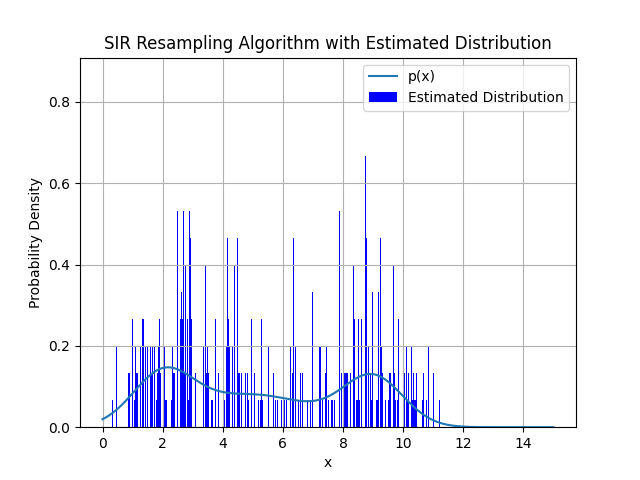
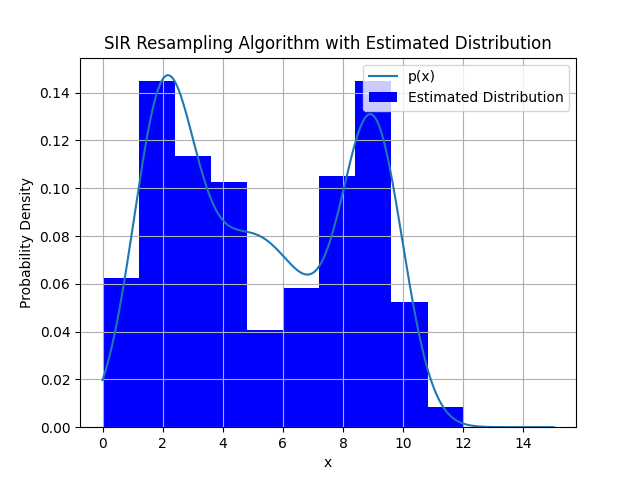
ex2

diff --git a/ex2/q2.py b/ex2/q2.py
@@ -9,12 +9,19 @@ def SIR_Algorithm(k, loops):
     
     x_values = np.linspace(0, 15, k)
 
-    # p_x = 0.3 * np.random.normal(2, 1, k) + 0.4 * np.random.normal(5, 2, k) + 0.3 * np.random.normal(9, 1, k)
-    p_x = 0.3 * norm.pdf(x_values, loc=2.0, scale=1.0) + 0.4 * norm.pdf(x_values, loc=5.0, scale=2.0) + 0.3 * norm.pdf(x_values, loc=9.0, scale=1.0)
+    def p(x_values):
+        return 0.3 * norm.pdf(x_values, loc=2.0, scale=1.0) + 0.4 * norm.pdf(x_values, loc=5.0, scale=2.0) + 0.3 * norm.pdf(x_values, loc=9.0, scale=1.0)
 
+    def q(x_vals):
+        return 1/15
+    
     q_x = np.random.normal(5, 4, k)
+    
 
     weights = np.ones(k) / k
+
+
+    p_x = p(x_values)
 
     plt.plot(x_values, p_x, label='True distribution')
     plt.scatter(q_x, np.zeros(k), color='red', marker='.', label='Samples')
@@ -26,18 +33,15 @@ def SIR_Algorithm(k, loops):
     plt.savefig("resq2/p_x_k_"+str(k)+"_loops_"+str(loops)+".png")
     plt.show()
 
-    # SIR Algorithm
-    for step in range(loops):
-        q_x += np.random.normal(0, 0.2, k)              # Predict the next particle positions 
-        weights *= np.interp(q_x, x_values, p_x)        # Calculate importance weights based on the true distribution
-        weights /= np.sum(weights)                      # Normalize the weights
-        # Resample particles based on weights
-        indices = np.random.choice(range(k), k, p=weights)
-        q_x = q_x[indices]
-        weights = np.ones(k) / k
+    weights = p(q_x) / q(q_x)
+    weights /= np.sum(weights)                        # Normalize the weights
+    # Resample particles based on weights
+    indices = np.random.choice(range(k), k, p=weights)
+    q_x = q_x[indices]
+    weights = np.ones(k) / k
 
     plt.plot(x_values, p_x, label='p(x)')
-    plt.hist(q_x, x_values, True, 0.5, color='blue', label='Estimated Distribution')
+    plt.hist(q_x, x_values, density=True, color='blue', label='Estimated Distribution')
     plt.xlabel('x')
     plt.ylabel('Probability Density')
     plt.title('SIR Resampling Algorithm with Estimated Distribution')

diff --git a/ex2/q1.py b/ex2/q1.py
@@ -10,11 +10,16 @@ def SIR_Algorithm(k, loops):
     x_values = np.linspace(0, 15, k)
 
     # Given probability density
-    p_x = 0.3 * norm.pdf(x_values, loc=2.0, scale=1.0) + 0.4 * norm.pdf(x_values, loc=5.0, scale=2.0) + 0.3 * norm.pdf(x_values, loc=9.0, scale=1.0)
+    def p(x_vals):
+        return 0.3 * norm.pdf(x_vals, loc=2.0, scale=1.0) + 0.4 * norm.pdf(x_vals, loc=5.0, scale=2.0) + 0.3 * norm.pdf(x_vals, loc=9.0, scale=1.0)
 
+    def q(x):
+        return 1/15
+    
     q_x = np.random.uniform(0, 15, k) 
 
     weights = np.ones(k) / k
+    p_x = p(x_values)
 
     plt.plot(x_values, p_x, label='True distribution')
     plt.scatter(q_x, np.zeros(k), color='red', marker='.', label='Samples')
@@ -27,19 +32,14 @@ def SIR_Algorithm(k, loops):
     plt.show()
 
     # SIR Algorithm
-    for step in range(loops):
-        q_x += np.random.normal(0, 0.2, k) # Predict the next particle positions 
-        weights *= np.interp(q_x, x_values, p_x) # Calculate importance weights based on the true distribution
-        weights /= np.sum(weights)  # Normalize the weights
-        # Resample particles based on weights
-
-        # 
-        indices = np.random.choice(range(k), k, p=weights)
-        q_x = q_x[indices]
-        weights = np.ones(k) / k
-
+    weights = p(q_x) / q(q_x)
+    weights /= np.sum(weights)                          # Normalize the weights
+    indices = np.random.choice(range(k), k, p=weights)
+    q_x = q_x[indices]
+    weights = np.ones(k) / k
+ 
     plt.plot(x_values, p_x, label='p(x)')
-    plt.hist(q_x, x_values, True, 0.5, color='blue', label='Estimated Distribution')
+    plt.hist(q_x, density=True, color='blue', label='Estimated Distribution')
     plt.xlabel('x')
     plt.ylabel('Probability Density')
     plt.title('SIR Resampling Algorithm with Estimated Distribution')
